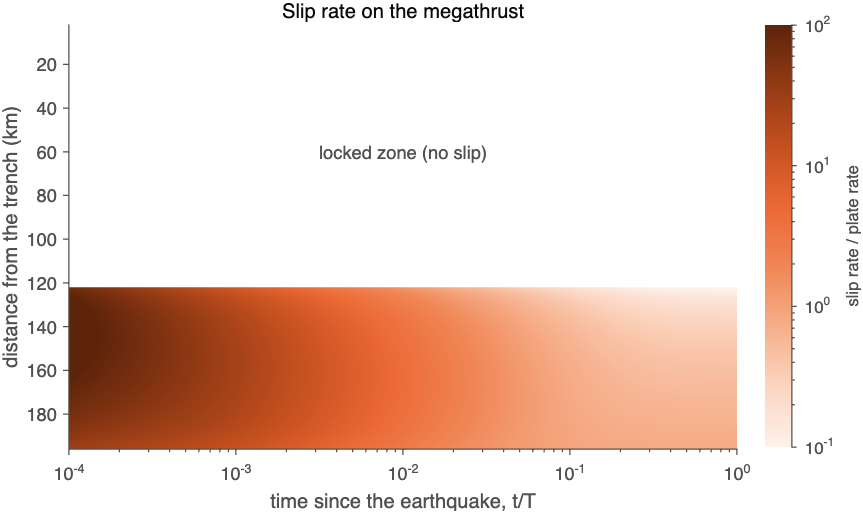
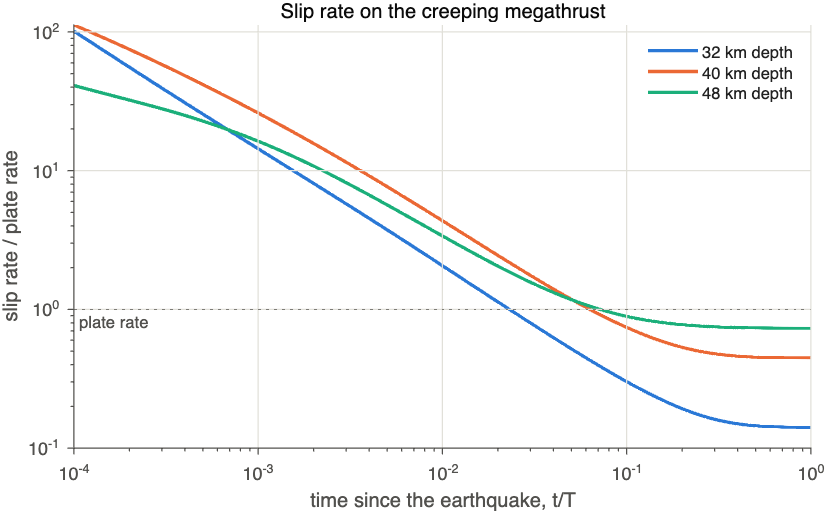
Plot example 1's slip rate as time series at three creeping patches
Replace the space-time plot of slip rate with slip rate against time at
the creeping patches at 32, 40 and 48 km depth (log-log, plate rate
marked), matching example 4's patches and colours. Update the page text
and regenerate the figure; the printed output is unchanged.

diff --git a/examples/example1_numericalPowerLaw.m b/examples/example1_numericalPowerLaw.m
@@ -76,18 +76,20 @@ dV = abs(V(end,~locked) - V(1,~locked)) ./ V(1,~locked);
 fprintf('change over the last cycle: strain rate median %.1e, max %.1e; slip rate max %.1e (relative, per cell/patch)\n', ...
     median(dE), max(dE), max(dV));
 
-%% fault slip rate through the cycle
+%% fault slip rate through the cycle, at three creeping patches
 st = exampleStyle();
-Vplot = V'/Vpl;  Vplot(locked,:) = NaN;          % locked zone: blank
-st.figure(1, 760, 420)
-pcolor(t/Trecur, rcv.xc(:,1)/1e3, Vplot), shading interp, hold on
-text(1e-2, mean(rcv.xc(locked,1))/1e3, 'locked zone (no slip)', 'Color', st.ink2, ...
-    'HorizontalAlignment', 'center', 'FontSize', 11)
-xlabel('time since the earthquake, t/T'), ylabel('distance from the trench (km)')
-cb = colorbar; cb.Label.String = 'slip rate / plate rate';
-clim(10.^[-1 2]), colormap(st.orange)
-set(gca, 'ColorScale', 'log', 'XScale', 'log', 'YDir', 'reverse')
-xlim([1e-4 1]), title('Slip rate on the megathrust')
+[~, ip] = min(abs(rcv.xc(:,2) + [32 40 48]*1e3));      % patches at 32, 40, 48 km depth
+st.figure(1, 760, 420), hold on
+for k = 1:numel(ip)
+    plot(t/Trecur, V(:,ip(k))/Vpl, 'Color', st.series(k,:), 'LineWidth', 2, ...
+        'DisplayName', sprintf('%.0f km depth', -rcv.xc(ip(k),2)/1e3))
+end
+yline(1, ':', 'plate rate', 'Color', st.ink2, 'HandleVisibility', 'off', 'FontSize', 10, ...
+    'LabelHorizontalAlignment', 'left', 'LabelVerticalAlignment', 'bottom')
+set(gca, 'XScale', 'log', 'YScale', 'log'), grid on
+xlim([1e-4 1]), xlabel('time since the earthquake, t/T'), ylabel('slip rate / plate rate')
+title('Slip rate on the creeping megathrust')
+legend('Location', 'northeast', 'Box', 'off')
 st.axes()
 
 %% mantle strain rate snapshots

diff --git a/docs/examples/example1.md b/docs/examples/example1.md
@@ -89,12 +89,13 @@ change over the last cycle: strain rate median 2.2e-07, max 3.4e-05; slip rate m
 
 ## 5. Plot the results
 
-**Slip rate** on the megathrust, as `pcolor(t/Trecur, rcv.xc(:,1)/1e3, V'/Vpl)`.
-Below the locked zone, afterslip starts at up to 100 times the plate rate and
-decays through the cycle.
+**Slip rate** at three creeping patches, `V(:,ip)/Vpl` against `t/Trecur`.
+Afterslip starts at up to 100 times the plate rate and decays below it within
+the first tenth of the cycle; the shallowest patch, next to the locked zone,
+ends slowest.
 
 ```{figure} ../_static/examples/example1_numericalPowerLaw_1.png
-:alt: Slip rate on the megathrust over the last cycle
+:alt: Slip rate at three creeping patches over the last cycle
 :width: 80%
 ```
 
